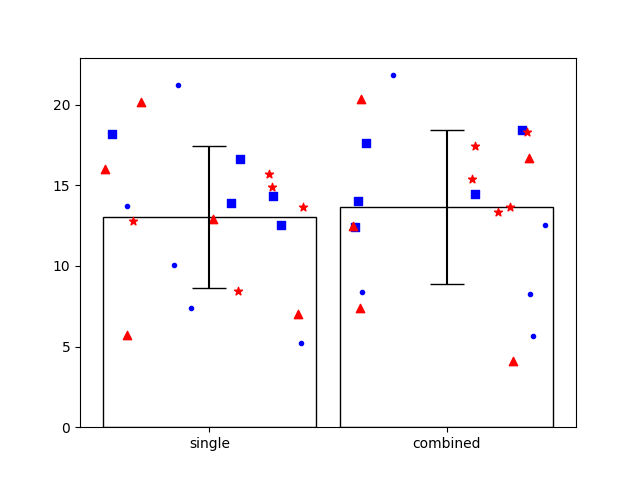
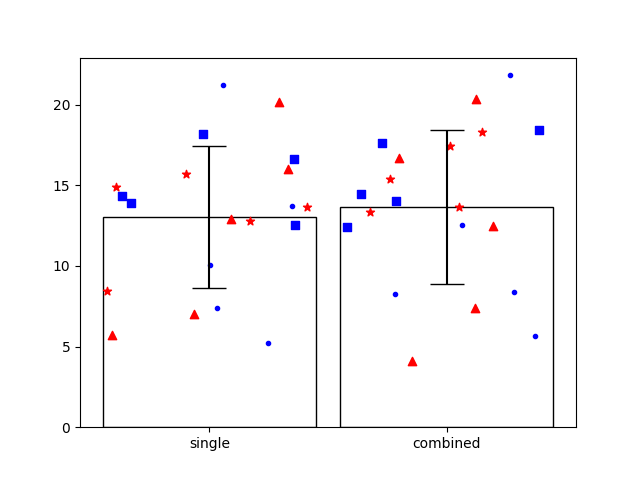
DLC update

diff --git a/DeepLabCut/DLC_jump_analysis/all_trackers/jump_analysis.py b/DeepLabCut/DLC_jump_analysis/all_trackers/jump_analysis.py
@@ -85,8 +85,9 @@ def main(full_path, relative_path, fname1, fname2):
     # exact_values=[np.mean(yi) for yi in y3]
     # print(exact_values)
 
-
-
+    test_a = y1[0] 
+    test_var = np.random.random(test_a[0:5].size)
+    print(test_var)
 
     for i in range(len(x1)):
         #distribute scatter randomly across whole width of bar
@@ -125,13 +126,25 @@ def main(full_path, relative_path, fname1, fname2):
     #RC1: Ms21, Ms22, Rear5
     #Rear5: Ms21, Ms22, RC1
 
-    for i in range(len(x2)):
-        #distribute scatter randomly across whole width of bar
-        b = y2[i]
-        #print(y)
-        plt.scatter(x2[i] + np.random.random(b[0:5].size) * w - w / 2, b[0:5], color=colors2[1], marker='.') #circle marker = Ms22
-        plt.scatter(x2[i] + np.random.random(b[5:10].size) * w - w / 2, b[5:10], color=colors2[0], marker = "s") #square marker = RC1
-        plt.scatter(x2[i] + np.random.random(b[5:10].size) * w - w / 2, b[10:15], color=colors2[0], marker = "^") #square marker = RC1
+    #circle marker = Ms21
+    #square marker = Ms22
+    #star marker = RC1
+    #triangle marker = Rear5
+
+    # for i in range(len(x2)):
+    #     b = y2[0]
+    #     c = y2[1]
+    #     d = y2[2]
+    #     e = y2[3]
+    #     #Ms21 Tracker:
+    #     plt.scatter(x2[i] + np.random.random(b[0:5].size) * w - w / 2, b[0:5], color=colors2[1], marker='s') #square marker = Ms22
+    #     plt.scatter(x2[i] + np.random.random(b[5:10].size) * w - w / 2, b[5:10], color=colors2[0], marker='*') #circle marker = Ms21
+    #     plt.scatter(x2[i] + np.random.random(b[5:10].size) * w - w / 2, b[5:10], color=colors2[0], marker='*') #circle marker = Ms21
+
+    #     #Ms22 Tracker:
+    #     plt.scatter(x2[i] + np.random.random(c[5:10].size) * w - w / 2, c[5:10], color=colors2[0], marker = "s") #square marker = Ms22
+    #     plt.scatter(x2[i] + np.random.random(d[10:15].size) * w - w / 2, d[10:15], color=colors2[0], marker = "*") #star marker = RC1
+    #     plt.scatter(x2[i] + np.random.random(e[5:10].size) * w - w / 2, e[10:15], color=colors2[0], marker = "^") #triangle marker = Rear5
 
   
     plt.savefig(fname2, dpi=100)
@@ -215,4 +228,4 @@ def main(full_path, relative_path, fname1, fname2):
     # plt.show()
 
 
-main(full_path_directory, nose_directory, "nose-results_single_combined.png", "nose-results_ind.png")#, "nose_results_2.png")
+main(full_path_directory, nose_directory, "test-nose-results_single_combined.png", "nose-results_ind.png")#, "nose_results_2.png")
